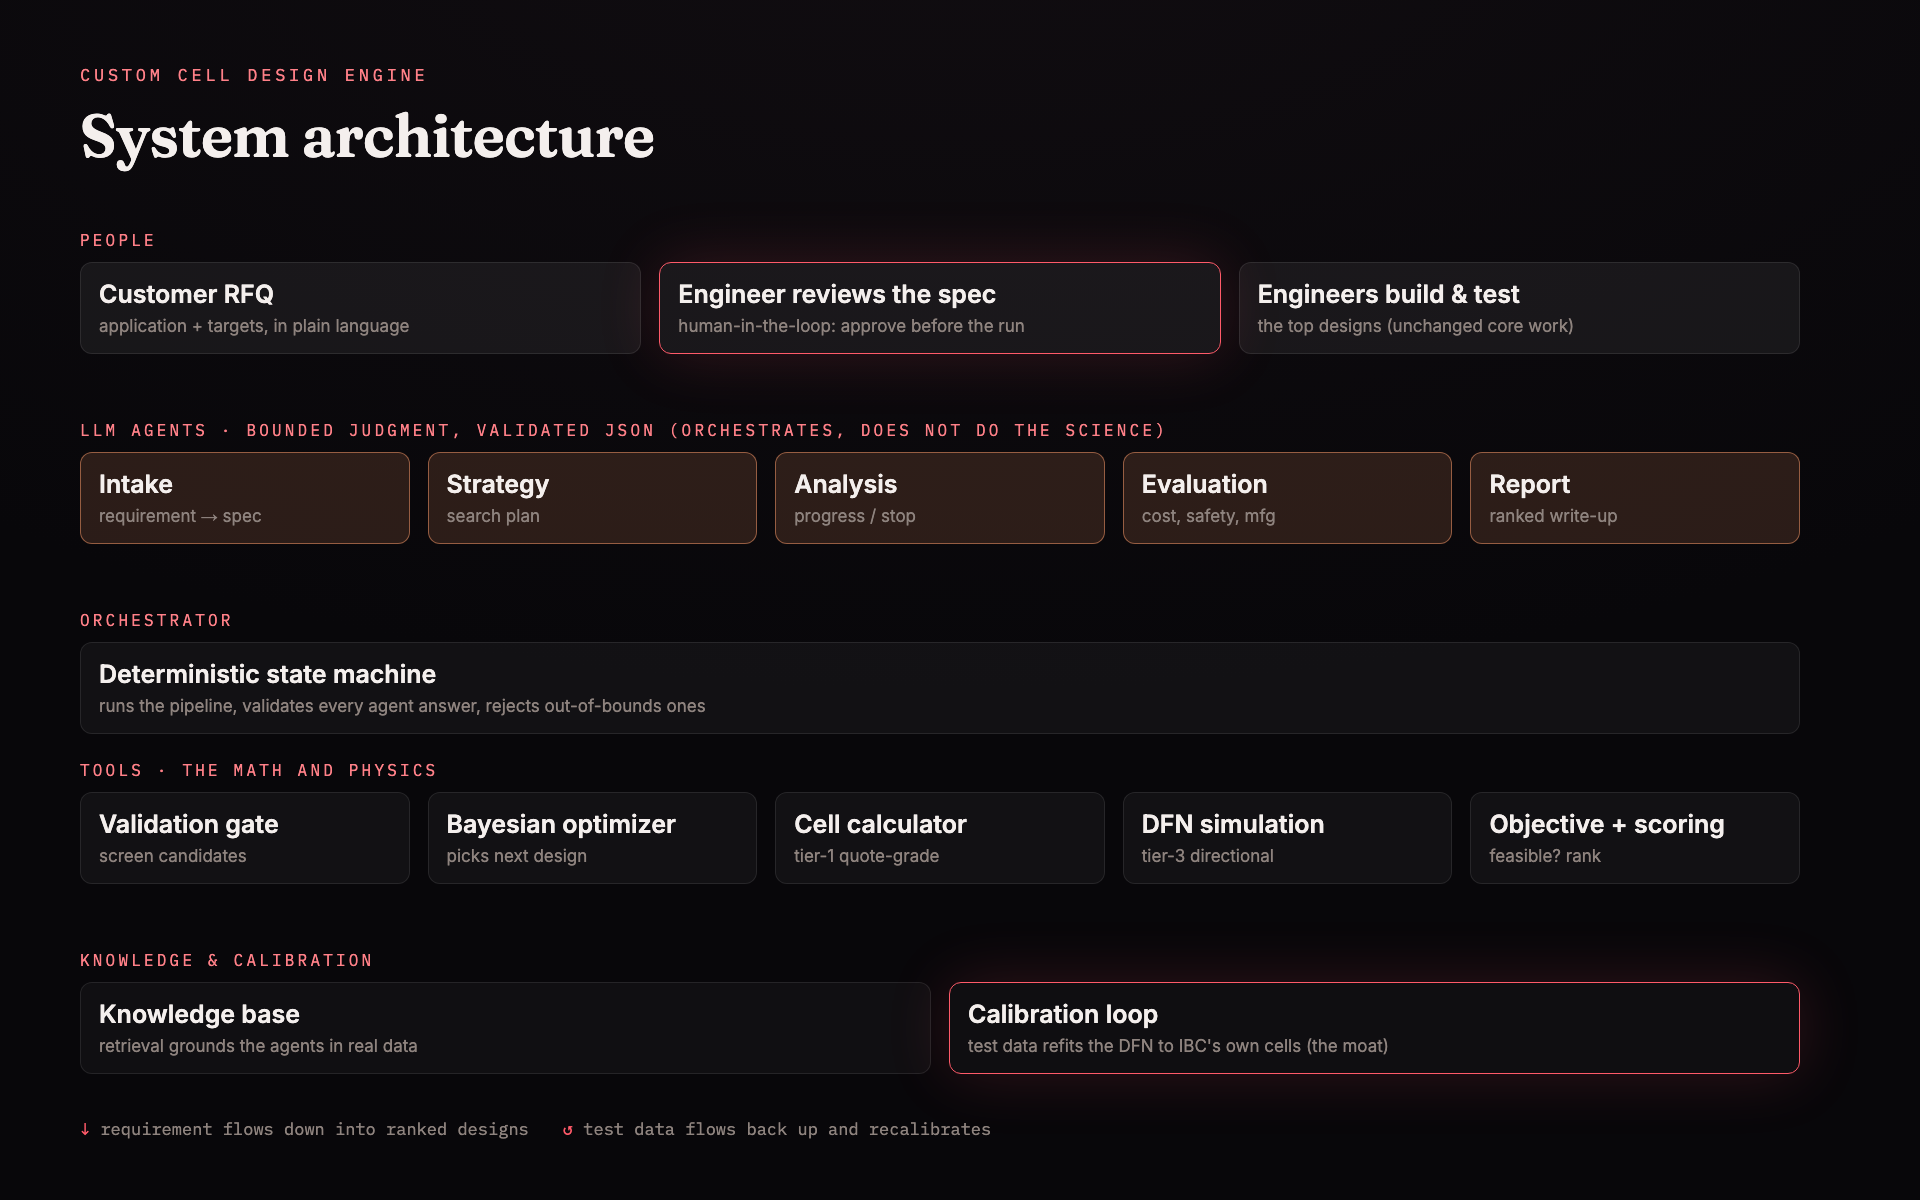
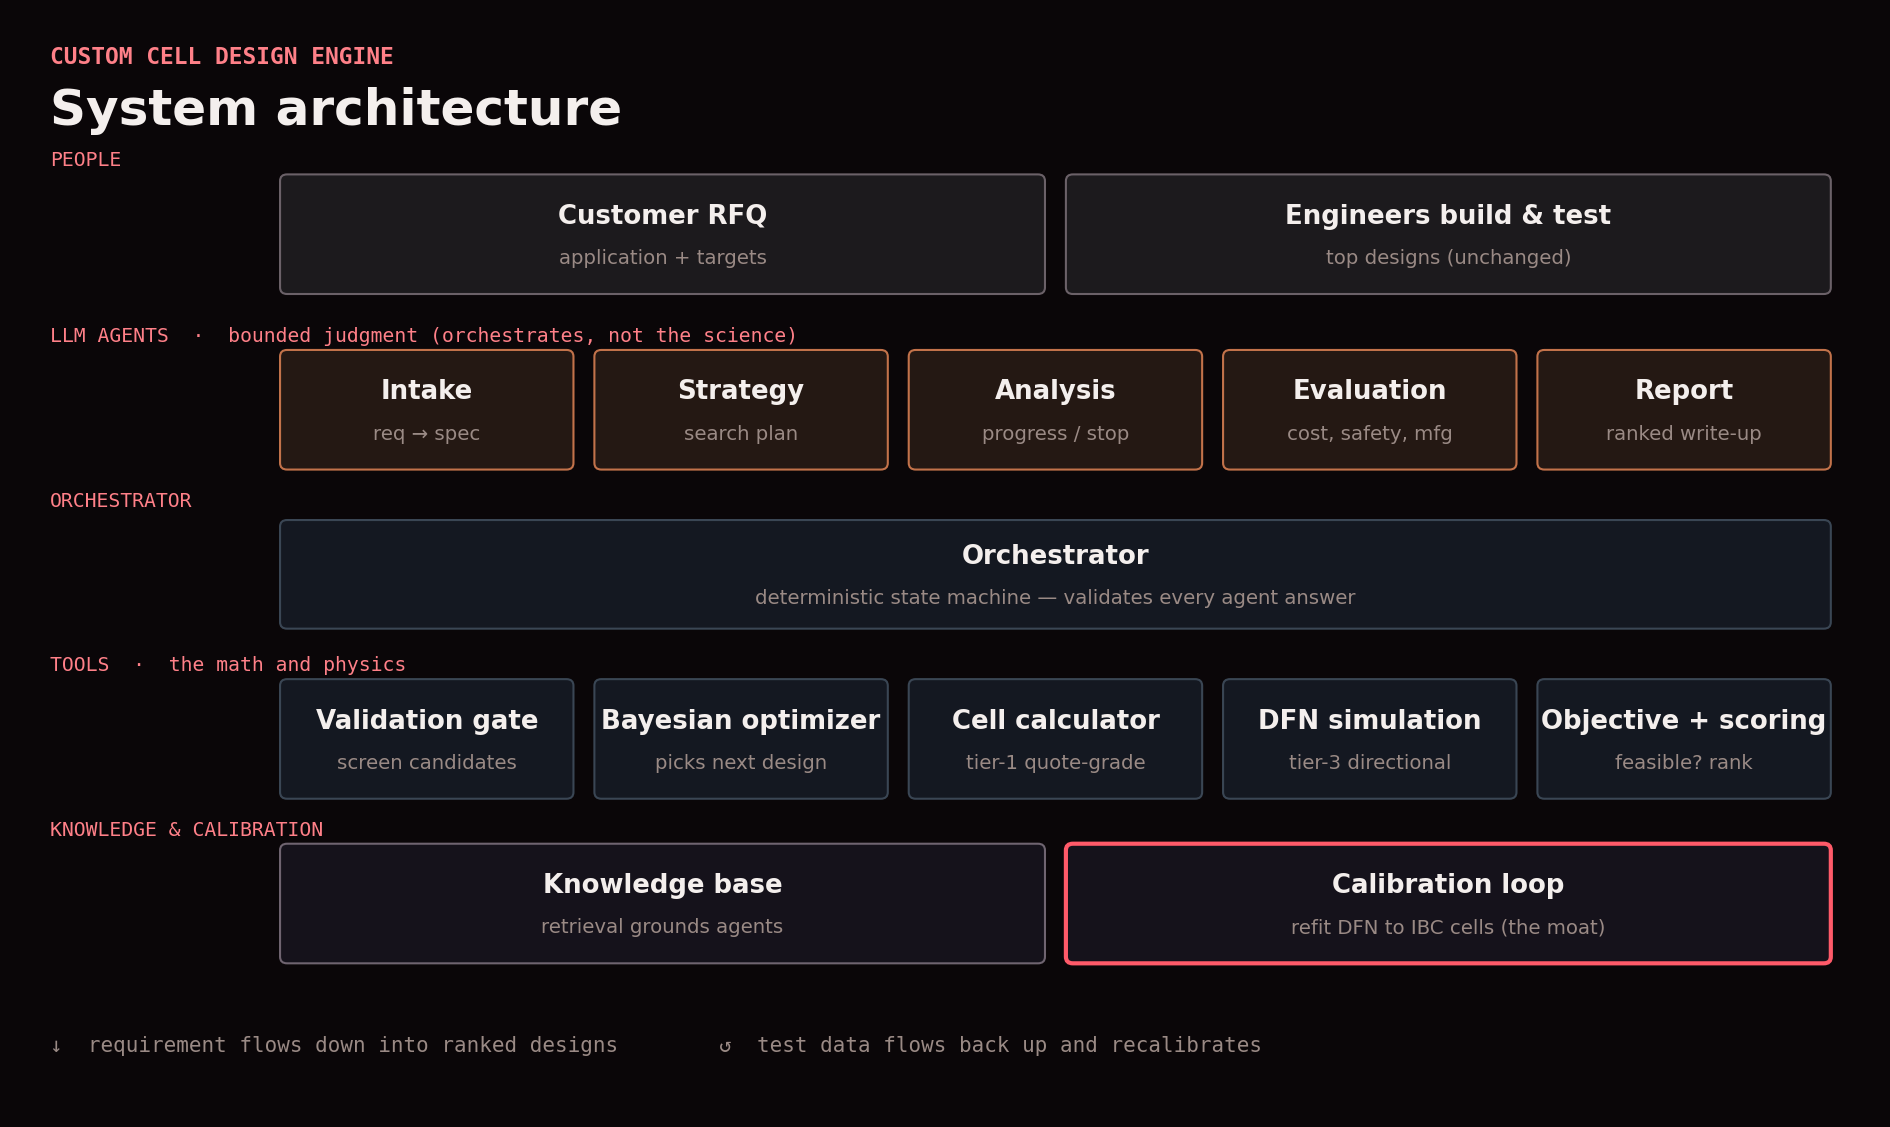
Remove the human-in-the-loop approval gate
Reverts the spec-approval gate added for Vipin's C3. orchestrator.run() is fully
autonomous again (no approve param, no SpecNotApproved, no approval in RunResult).
Removed from THE_IDEA, the review-responses doc (C3 now: human is in the loop at
both ends, the run itself stays autonomous), the drawio, and the architecture
diagram. Architecture PNG is now regenerated by make_diagrams.py (matplotlib),
since Remotion was deleted. 47 tests pass.

diff --git a/scripts/make_diagrams.py b/scripts/make_diagrams.py
@@ -1,6 +1,6 @@
-"""Generate the matplotlib diagrams for the status PDF (the review-convergence
-chart). The pipeline and flywheel flowcharts are Mermaid (docs/diagrams/*.mmd,
-rendered with mmdc); see scripts/build_status_pdf.py for the full build sequence.
+"""Generate the matplotlib diagrams for the docs: the review-convergence chart and
+the system architecture block diagram (docs/diagrams/system_architecture.png).
+The pipeline/flywheel flowcharts are Mermaid (docs/diagrams/*.mmd via mmdc).
 """
 
 import os
@@ -9,11 +9,15 @@ import matplotlib
 
 matplotlib.use("Agg")
 import matplotlib.pyplot as plt
+from matplotlib.patches import FancyBboxPatch
 
 os.makedirs("results", exist_ok=True)
+os.makedirs("docs/diagrams", exist_ok=True)
+
 NAVY = "#1a2a4f"
 BUILT = "#2e6fb7"
 
+# ---- review convergence chart ----
 fig, ax = plt.subplots(figsize=(7, 3.6))
 rounds = ["Round 1\n(foundation)", "Round 2\n(complete engine)", "Round 3\n(verify fixes)"]
 counts = [36, 21, 8]
@@ -26,4 +30,61 @@ ax.spines[["top", "right"]].set_visible(False)
 ax.set_ylim(0, 40)
 fig.tight_layout()
 fig.savefig("results/review_convergence.png", dpi=150, bbox_inches="tight")
-print("saved results/review_convergence.png")
+plt.close(fig)
+
+# ---- system architecture block diagram ----
+BG, TXT, DIM, CORAL = "#0a0608", "#f4efed", "#9a8a85", "#ff5a69"
+CORALLBL = "#ff8088"
+
+
+def _box(ax, x0, x1, yc, h, title, sub, fill, edge, lw=1.0):
+    ax.add_patch(FancyBboxPatch((x0, yc - h / 2), x1 - x0, h, boxstyle="round,pad=0.02,rounding_size=0.06",
+                                facecolor=fill, edgecolor=edge, linewidth=lw))
+    ax.text((x0 + x1) / 2, yc + 0.16, title, ha="center", va="center", color=TXT, fontsize=12.5, weight="bold")
+    ax.text((x0 + x1) / 2, yc - 0.22, sub, ha="center", va="center", color=DIM, fontsize=9.5)
+
+
+def _lane(ax, items, yc, fill, edge, x0=2.3, x1=15.6, gap=0.22, h=1.05, lw=1.0):
+    n = len(items)
+    w = (x1 - x0 - gap * (n - 1)) / n
+    for i, (title, sub, *acc) in enumerate(items):
+        bx0 = x0 + i * (w + gap)
+        e = CORAL if acc and acc[0] else edge
+        _box(ax, bx0, bx0 + w, yc, h, title, sub, fill, e, lw=2.0 if (acc and acc[0]) else lw)
+
+
+fig, ax = plt.subplots(figsize=(16, 9.5))
+ax.set_xlim(0, 16)
+ax.set_ylim(0, 10)
+ax.axis("off")
+fig.patch.set_facecolor(BG)
+ax.set_facecolor(BG)
+
+ax.text(0.3, 9.55, "CUSTOM CELL DESIGN ENGINE", color=CORALLBL, fontsize=11, family="monospace", weight="bold")
+ax.text(0.3, 9.0, "System architecture", color=TXT, fontsize=24, weight="bold")
+
+lanes = [
+    (8.0, "PEOPLE", [("Customer RFQ", "application + targets"), ("Engineers build & test", "top designs (unchanged)")], "#1c1a1d", "#6b6168"),
+    (6.4, "LLM AGENTS  ·  bounded judgment (orchestrates, not the science)",
+     [("Intake", "req → spec"), ("Strategy", "search plan"), ("Analysis", "progress / stop"), ("Evaluation", "cost, safety, mfg"), ("Report", "ranked write-up")], "#241813", "#c2724a"),
+    (4.9, "ORCHESTRATOR", [("Orchestrator", "deterministic state machine — validates every agent answer")], "#141821", "#3a4654"),
+    (3.4, "TOOLS  ·  the math and physics",
+     [("Validation gate", "screen candidates"), ("Bayesian optimizer", "picks next design"), ("Cell calculator", "tier-1 quote-grade"), ("DFN simulation", "tier-3 directional"), ("Objective + scoring", "feasible? rank")], "#141821", "#3a4654"),
+    (1.9, "KNOWLEDGE & CALIBRATION",
+     [("Knowledge base", "retrieval grounds agents"), ("Calibration loop", "refit DFN to IBC cells (the moat)", True)], "#15121b", "#6f6470"),
+]
+for yc, label, items, fill, edge in lanes:
+    ax.text(0.3, yc + 0.62, label, color=CORALLBL, fontsize=9.5, family="monospace")
+    # special-case the wide single orchestrator box
+    if len(items) == 1 and label == "ORCHESTRATOR":
+        _box(ax, 2.3, 15.6, yc, 0.95, items[0][0], items[0][1], fill, edge)
+    else:
+        _lane(ax, items, yc, fill, edge)
+
+ax.text(0.3, 0.55, "↓  requirement flows down into ranked designs        ↺  test data flows back up and recalibrates",
+        color=DIM, fontsize=10, family="monospace")
+
+fig.savefig("docs/diagrams/system_architecture.png", dpi=150, facecolor=BG, bbox_inches="tight")
+plt.close(fig)
+
+print("saved results/review_convergence.png and docs/diagrams/system_architecture.png")

diff --git a/src/celltool/orchestrator.py b/src/celltool/orchestrator.py
@@ -4,9 +4,6 @@ A plain state machine. It calls the agent seams for the bounded judgment calls
 (intake, strategy, analysis) and the math tools (optimizer over calculator+DFN)
 for everything quantitative. Deterministic Python is in charge; the agents only
 choose from contracts they cannot break.
-
-There is a human-in-the-loop gate after intake: an engineer approves the structured
-spec before the autonomous run starts (see auto_approve_spec).
 """
 
 from dataclasses import dataclass
@@ -17,31 +14,12 @@ from . import agents, config, optimizer
 @dataclass
 class RunResult:
     spec: dict
-    approval: dict
     strategy: dict
     opt: object       # OptResult
     verdict: dict
 
 
-class SpecNotApproved(Exception):
-    """Raised when the spec fails the human-in-the-loop gate, so the run never starts."""
-
-
 N_CALLS_CAP = 200
-
-
-def auto_approve_spec(spec):
-    """Default reviewer for the human-in-the-loop gate (THE_IDEA step 2).
-
-    In a real engagement an IBC engineer reviews and approves the structured spec
-    here, before the autonomous run spends any compute. This default stands in for
-    that engineer: it checks the spec is complete and approves. Swap it for a real
-    approval (a prompt, a UI confirmation, an LLM-assisted review) without changing
-    the orchestrator.
-    """
-    required = {"spec_c_rate", "targets"}
-    missing = required - set(spec)
-    return {"approved": not missing, "reason": "spec complete" if not missing else f"missing fields: {sorted(missing)}"}
 
 
 def _validate_strategy(strat):
@@ -66,20 +44,12 @@ def _validate_verdict(verdict):
     return verdict
 
 
-def run(cell_path="configs/cell.yaml", platform_path="configs/platform.yaml", rfq_path="configs/rfq.yaml",
-        seed=0, approve=auto_approve_spec):
+def run(cell_path="configs/cell.yaml", platform_path="configs/platform.yaml", rfq_path="configs/rfq.yaml", seed=0):
     base_cell = config.load_config(cell_path)
     platform = config.load_config(platform_path)
     rfq_raw = config.load_config(rfq_path)
 
     spec = agents.intake(rfq_raw)                          # seam (validated inside)
-
-    # Human-in-the-loop gate: an engineer approves the spec before the autonomous
-    # run starts. Nothing downstream runs until this passes.
-    approval = approve(spec)
-    if not approval.get("approved"):
-        raise SpecNotApproved(approval.get("reason", "spec rejected"))
-
     strat = agents.strategy(spec)                          # seam
     budget = _validate_strategy(strat)                     # reject/clamp before obeying
     opt = optimizer.optimize(
@@ -87,4 +57,4 @@ def run(cell_path="configs/cell.yaml", platform_path="configs/platform.yaml", rf
         n_calls=budget["n_calls"], n_initial=budget["n_initial"], seed=seed,
     )
     verdict = _validate_verdict(agents.analysis(opt.evaluations_by_trial))  # seam, validated
-    return RunResult(spec=spec, approval=approval, strategy=strat, opt=opt, verdict=verdict)
+    return RunResult(spec=spec, strategy=strat, opt=opt, verdict=verdict)

diff --git a/tests/test_orchestrator.py b/tests/test_orchestrator.py
@@ -1,21 +1,6 @@
-"""Orchestrator tests: seam-output validation, the approval gate, and a smoke run."""
+"""Orchestrator tests: seam-output validation and an end-to-end smoke run."""
 
-import pytest
-
-from celltool import agents, config, orchestrator
-
-
-def test_auto_approve_spec_passes_complete_rejects_incomplete():
-    spec = config.load_config("configs/rfq.yaml")
-    assert orchestrator.auto_approve_spec(spec)["approved"] is True
-    assert orchestrator.auto_approve_spec({"targets": {}})["approved"] is False
-
-
-def test_run_blocks_on_rejected_spec():
-    # The human-in-the-loop gate: a rejecting reviewer stops the run before any
-    # compute (no DFN runs), so this is fast.
-    with pytest.raises(orchestrator.SpecNotApproved):
-        orchestrator.run(approve=lambda spec: {"approved": False, "reason": "needs changes"})
+from celltool import agents, orchestrator
 
 
 def test_validate_strategy_clamps_inverted_budget():
@@ -38,6 +23,5 @@ def test_run_smoke(monkeypatch):
     monkeypatch.setattr(agents, "strategy", lambda spec: {"n_calls": 6, "n_initial": 3, "rationale": "test"})
     run = orchestrator.run()
     assert run.spec["spec_c_rate"] == 3.0
-    assert run.approval["approved"] is True
     assert run.opt.best_overrides and run.opt.best_result is not None
     assert {"converged", "best_score", "n_evaluated", "message"}.issubset(run.verdict)

diff --git a/docs/review_responses_vipin.md b/docs/review_responses_vipin.md
@@ -28,12 +28,11 @@ validates everything in between.
 
 ## C3 — add a human-in-the-loop after intake, before the run
 
-Agreed and added. There is now an explicit **engineer-approval gate**: after the
-intake agent turns the conversation into a structured spec, an engineer reviews
-and approves that spec before the autonomous optimization run starts. This is the
-highlighted block in the architecture diagram and is added to `THE_IDEA.md`. It
-costs almost nothing, catches a misread requirement before any compute is spent,
-and keeps a human accountable for what the run is actually optimizing.
+Considered, but we are keeping the run fully autonomous rather than adding a
+separate mid-pipeline approval gate. The human is already in the loop at both
+ends: a person writes the requirement going in, and engineers review the ranked
+output and decide what to actually build coming out. The run itself (search and
+scoring) is the part we want automated, with no human pause in the middle.
 
 ## C4 — don't just mimic the existing workflow; review it first
 

diff --git a/docs/THE_IDEA.md b/docs/THE_IDEA.md
@@ -256,11 +256,7 @@ charge; airborne use implies vibration and weight sensitivity. Its output is
 a structured specification: cell-level targets plus a test protocol that
 mirrors the real duty cycle (takeoff, climb, cruise, land, at the right
 currents and durations), so every simulation downstream is judged against
-the customer's actual life, not a generic lab test. Before the autonomous run
-begins, an IBC engineer reviews and approves this structured spec: a
-human-in-the-loop gate that catches a misread requirement before any compute is
-spent and keeps a person accountable for what the run optimizes. The
-"autonomous" part is everything after this approval, not the requirements.
+the customer's actual life, not a generic lab test.
 
 **Step 3. Platform matcher.** Before any optimization, the spec is matched
 against IBC's platform families and the library of heritage designs. A